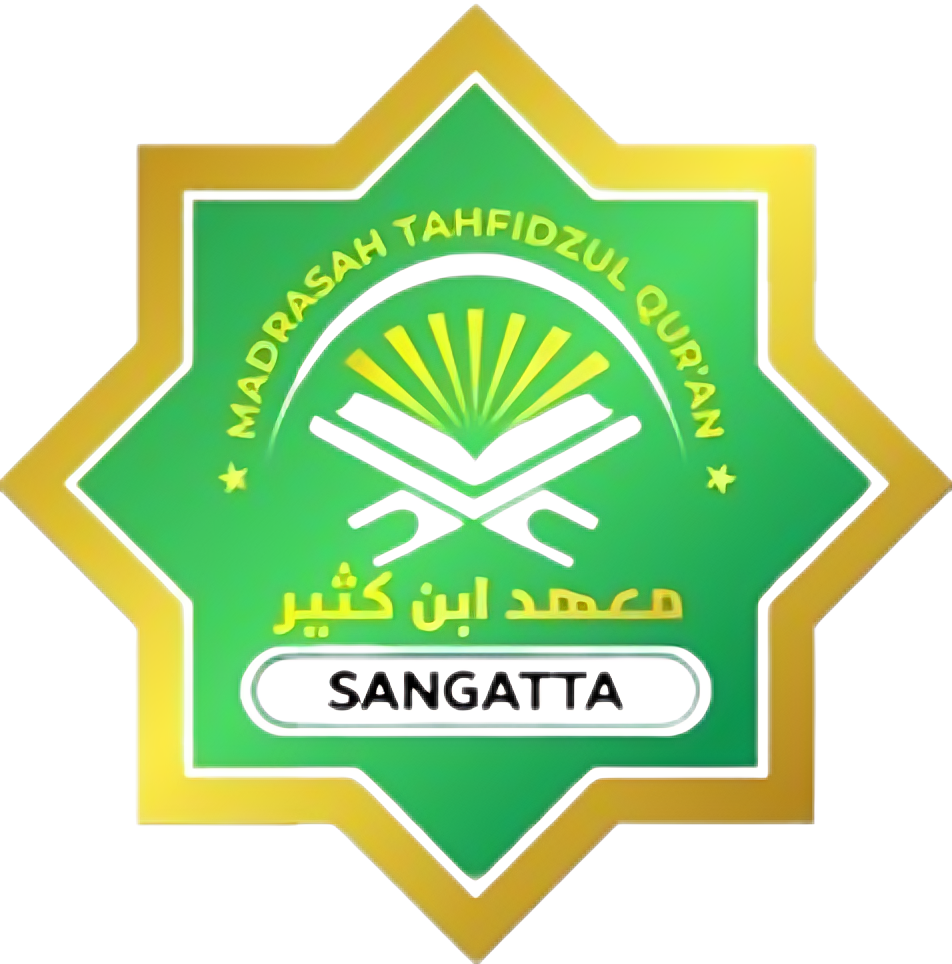
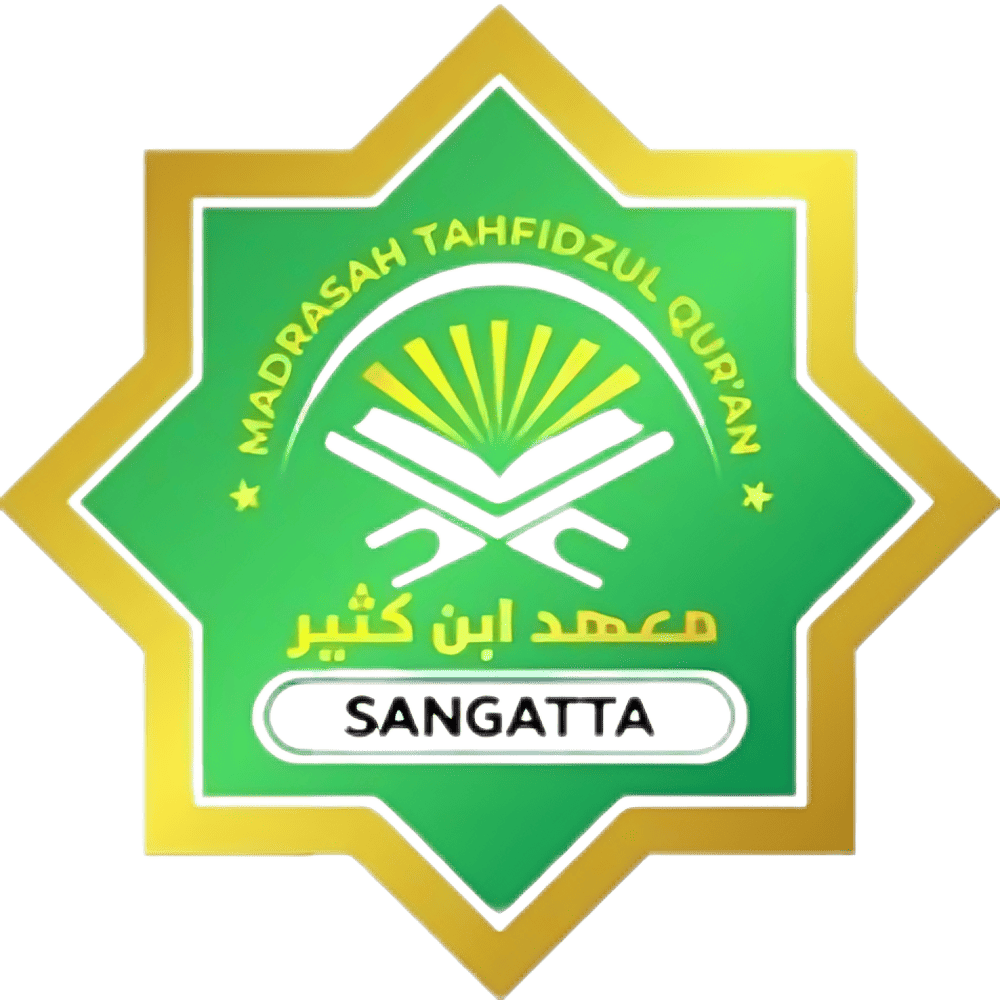
fix: SEO  for share

Changed region(s): [[0.3655, 0.3734, 0.396, 0.4046]]

diff --git a/resources/views/app.blade.php b/resources/views/app.blade.php
@@ -7,11 +7,40 @@
 
     <title inertia>{{ config('app.name', 'Kajian Islam Sangatta') }}</title>
     <link rel="icon" href="{{ asset('assets/kis-icon.png') }}" type="image/png">
-    {{-- <link rel="shortcut icon" href="{{ asset('assets/kis-icon.ico') }}"> --}}
-    <link rel="apple-touch-icon" href="{{ asset('assets/kis-icon.png') }}">
-
+    <link rel="apple-touch-icon" href="{{ asset('assets/icon-share.jpg') }}">
     <link rel="preconnect" href="https://fonts.bunny.net">
     <link href="https://fonts.bunny.net/css?family=instrument-sans:400,500,600" rel="stylesheet" />
+
+    @php
+        $title = $page['props']['meta']->title ?? config('app.name');
+        $description =
+            $page['props']['meta']->description ??
+            "Kajian Islam Sangatta, Media belajar Islam untuk memperdalam pemahaman tentang Al-Qur'an dan As-Sunnah sesuai dengan pemahaman Salaf - kajianislamsangatta.com";
+        $url = $page['props']['meta']->url ?? url()->current();
+        $image = $page['props']['meta']->image ?? asset('assets/icon-share.jpg');
+        $sizeHeight = isset($page['props']['meta']->title) && !empty($page['props']['meta']->title) ? 451 : 800;
+    @endphp
+
+    {{-- Basic meta --}}
+    <meta name="author" content="Kajian Islam Sangatta">
+    <meta name="description" content="{{ $description }}">
+
+    <!-- Open Graph -->
+    <meta property="og:title" content="{{ $title }}">
+    <meta property="og:description" content="{{ $description }}">
+    <meta property="og:type" content="article">
+    <meta property="og:url" content="{{ $url }}">
+    <meta property="og:site_name" content="kajianislamsangatta.com">
+    <meta property="og:image" content="{{ $image }}">
+    <meta property="og:image:width" content="800">
+    <meta property="og:image:height" content="{{ $sizeHeight }}">
+    <meta property="og:image:type" content="image/jpeg">
+
+    <!-- Twitter -->
+    <meta name="twitter:card" content="summary_large_image">
+    <meta name="twitter:title" content="{{ $title }}">
+    <meta name="twitter:description" content="{{ $description }}">
+    <meta name="twitter:image" content="{{ $image }}">
 
     @routes
     @viteReactRefresh

diff --git a/app/Http/Controllers/BlogController.php b/app/Http/Controllers/BlogController.php
@@ -10,9 +10,10 @@ use App\Models\Category;
 use App\Models\Post;
 use App\Models\Tag;
 use Illuminate\Http\Request;
+use Illuminate\Support\Facades\Storage;
 use Inertia\Inertia;
+use Illuminate\Support\Str;
 
-use function PHPUnit\Framework\isNull;
 
 class BlogController extends Controller
 {
@@ -41,7 +42,7 @@ class BlogController extends Controller
             'posts' => PostResource::collection($post),
             'qna' => PostResource::collection($qna),
             'poster' => PostResource::collection($poster),
-            "banner" => BannerResource::collection(Banner::query()->where('status', true)->orderBy('order')->get())
+            "banner" => BannerResource::collection(Banner::query()->where('status', true)->orderBy('order')->get()),
         ]);
     }
 
@@ -92,6 +93,14 @@ class BlogController extends Controller
             'previousPost' => $previousPost ? PostResource::make($previousPost) : null,
             'nextPost' => $nextPost ? PostResource::make($nextPost) : null,
             'relevantPosts' => $relevantPosts->isNotEmpty() ? PostResource::collection($relevantPosts) : [],
+            'meta' => (object)[
+                'title' => $post->title,
+                'description' => Str::limit(strip_tags($post->description), 160),
+                'image' => url(Storage::url($post->image)),
+                'url' => url()->current(),
+                'type' => 'article',
+            ],
+
         ]);
     }
 

diff --git a/config/app.php b/config/app.php
@@ -13,7 +13,7 @@ return [
     |
     */
 
-    'name' => env('APP_NAME', 'Laravel'),
+    'name' => env('APP_NAME', 'Kajian Islam Sangatta'),
 
     /*
     |--------------------------------------------------------------------------
